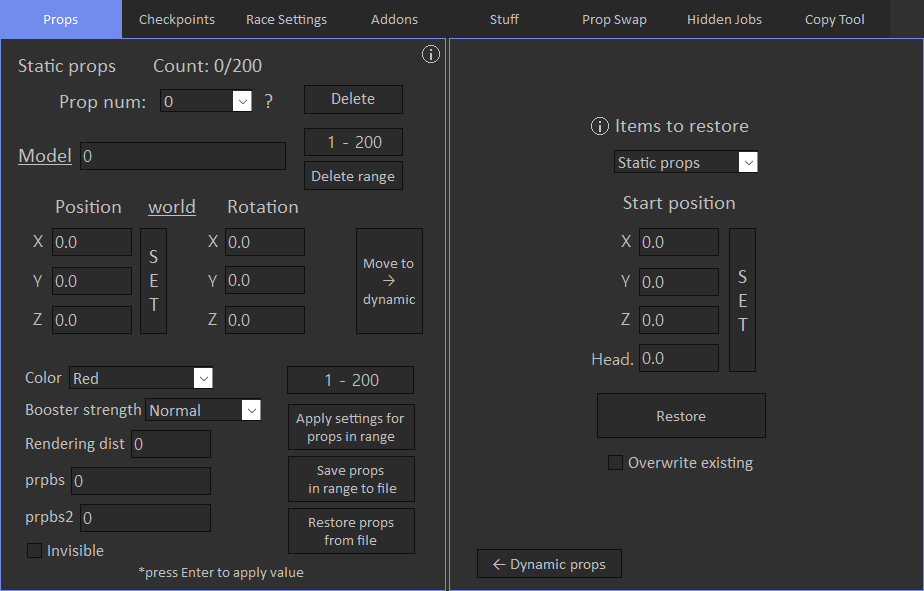
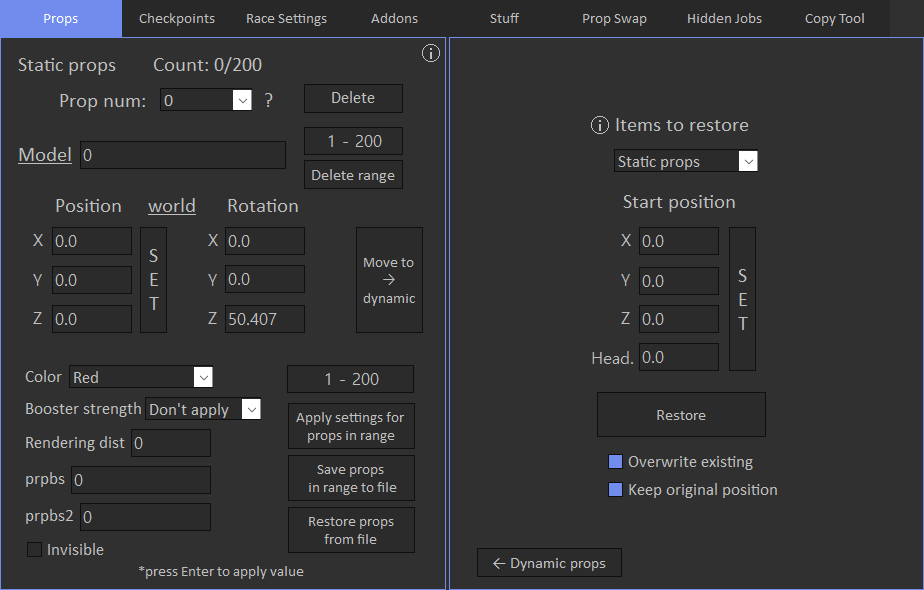
update adv restore & auto props

diff --git a/docs/props/advanced-restore.md b/docs/props/advanced-restore.md
@@ -1,6 +1,6 @@
 # Advanced Restore
 
-Advanced restore allows to restore props from the reference position.
+Advanced restore allows to restore various items from the reference position.
 
 ![Img1](../../assets/images/props/img04.png)
 
@@ -8,9 +8,15 @@ It basically means that you can move your map to another location.
 
 If 'Overwrite exising' checkbox is checked, exising items will be replaced with the restored ones, otherwise restored items will be appended.
 
-Supported restore options are props, dynamic props and checkpoints.
+If 'Keep original position' checkbox is checked, reference position will be ignored.
 
-For example you can save props to file from the map that was built in the city, then set Start position to cursor coordinates in the airport and press Restore. 
+Supported restore options are props, dynamic props and checkpoints and others.
+
+Supported formats for XML maps are Spooner and Map Editor.
+
+For example you can save props to file from the map that was built in the city, then set Start position to cursor coordinates in the airport and press Restore.
+
+Note that 'Keep original position' checkbox must be disabled if you want to move items to a different place.
 
 ![Img2](../../assets/images/props/img05.png)
 ![Img3](../../assets/images/props/img06.png)

diff --git a/docs/props/auto-placement/overview.md b/docs/props/auto-placement/overview.md
@@ -13,6 +13,8 @@ Step fields for rotation means that some value will be added on every iteration 
 Length step and Height step will be added to the position on every iteration of props placing.
 If multiplier is set, it will be multiplied on every iteration of props placing.
 
+You can save/restore configuration from all fields to file.
+
 'Delete' button deletes only the last placed props preset.
 
 There are also Random color and rotation buttons, those are self explanatory.
